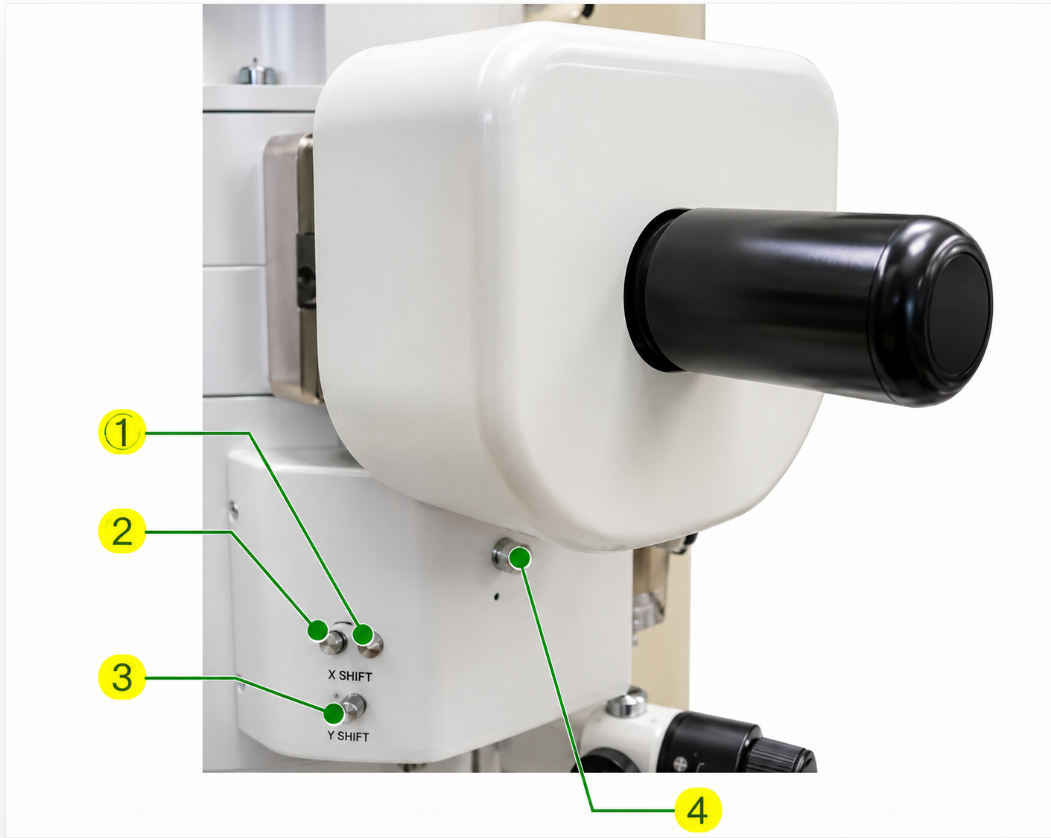
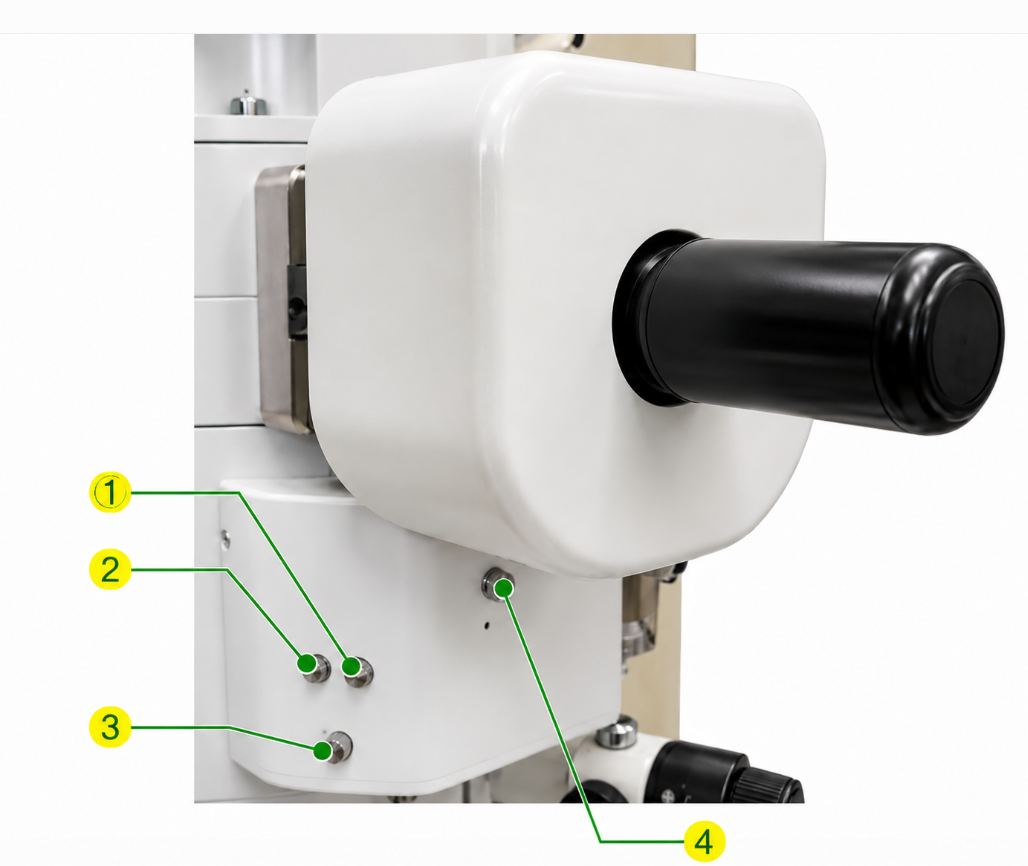
deploying final ver1.21

Changed region(s): [[0.0623, 0.0, 0.9961, 1.0], [0.4047, 0.5895, 0.4358, 0.6205]]

diff --git a/data/components-data.js b/data/components-data.js
@@ -833,8 +833,8 @@
   const panelGoniometerFace = {
     image: {
       src: '../assets/images/column/panel-goniometer.png',
-      width: 1051,
-      height: 838
+      width: 1028,
+      height: 866
     },
     isDrilldown: true,
     title: 'Goniometer',
@@ -847,8 +847,8 @@
         body: [
           'Indicates, when lit, that the goniometer is ready for loading of a specimen holder.'
         ],
-        pin: { x: 11.6, y: 51.5 },
-        hotspot: box(11.6, 51.5, 6, 6)
+        pin: { x: 10.7, y: 56.8 },
+        hotspot: box(10.7, 56.8, 6, 5)
       },
       {
         id: 'gonio-yellow-lamp',
@@ -857,8 +857,8 @@
         body: [
           'Indicates, when lit, that the roughing vacuum pump is evacuating the goniometer.'
         ],
-        pin: { x: 11.6, y: 63.3 },
-        hotspot: box(11.6, 63.3, 6, 6)
+        pin: { x: 10.7, y: 65.7 },
+        hotspot: box(10.7, 65.7, 6, 5)
       },
       {
         id: 'gonio-pump-air',
@@ -867,8 +867,8 @@
         body: [
           'Setting this switch to PUMP evacuates the goniometer (the yellow lamp lights up during evacuation) and setting this switch to AIR opens the goniometer to the atmosphere. Set the switch to the desired position while pulling it out.'
         ],
-        pin: { x: 11.6, y: 80.8 },
-        hotspot: box(11.6, 80.8, 6, 6)
+        pin: { x: 10.7, y: 83.9 },
+        hotspot: box(10.7, 83.9, 6, 5)
       },
       {
         id: 'gonio-connector',
@@ -877,8 +877,8 @@
         body: [
           'Used for optional specimen holders such as a double-tilt specimen holder.'
         ],
-        pin: { x: 66.4, y: 96.6 },
-        hotspot: box(66.4, 96.6, 8, 6)
+        pin: { x: 68.5, y: 97.1 },
+        hotspot: box(68.5, 97.1, 8, 5)
       }
     ]
   };

diff --git a/assets/css/column.css b/assets/css/column.css
@@ -216,7 +216,7 @@
 .column-image-wrap--detail    { aspect-ratio: 900 / 620; }
 .column-image-wrap--l1        { aspect-ratio: 1105 / 829; }
 .column-image-wrap--r1        { aspect-ratio: 1278 / 833; }
-.column-image-wrap--goniometer { aspect-ratio: 1051 / 838; }
+.column-image-wrap--goniometer { aspect-ratio: 1028 / 866; }
 
 .column-image {
   position: absolute;